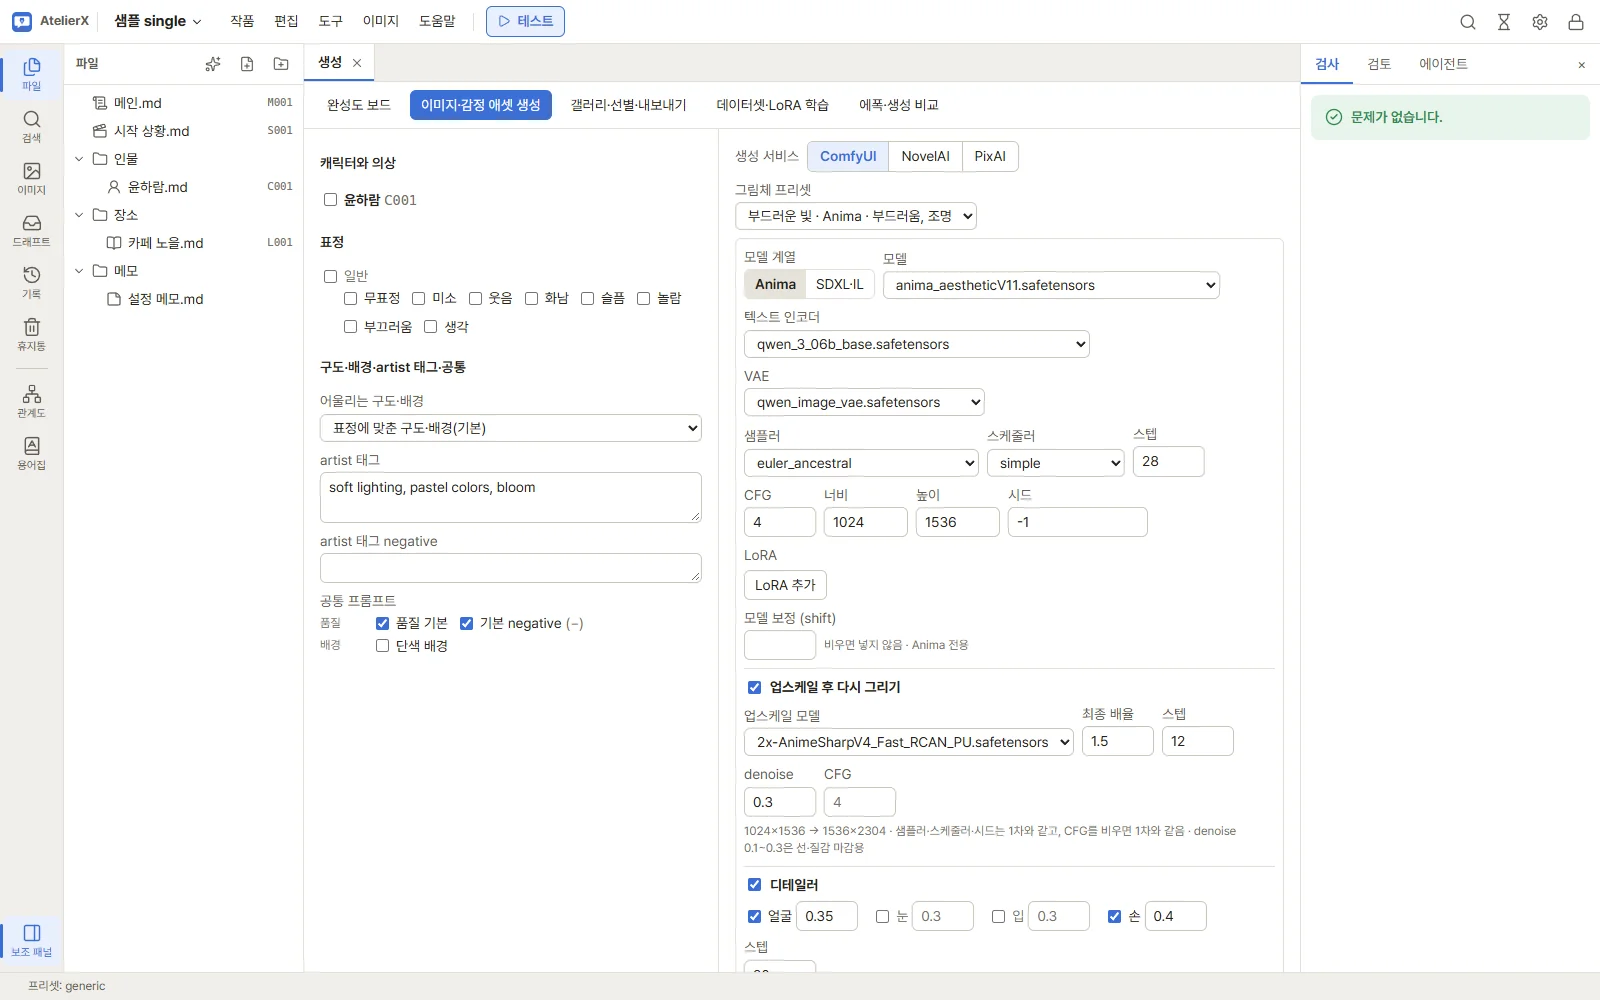
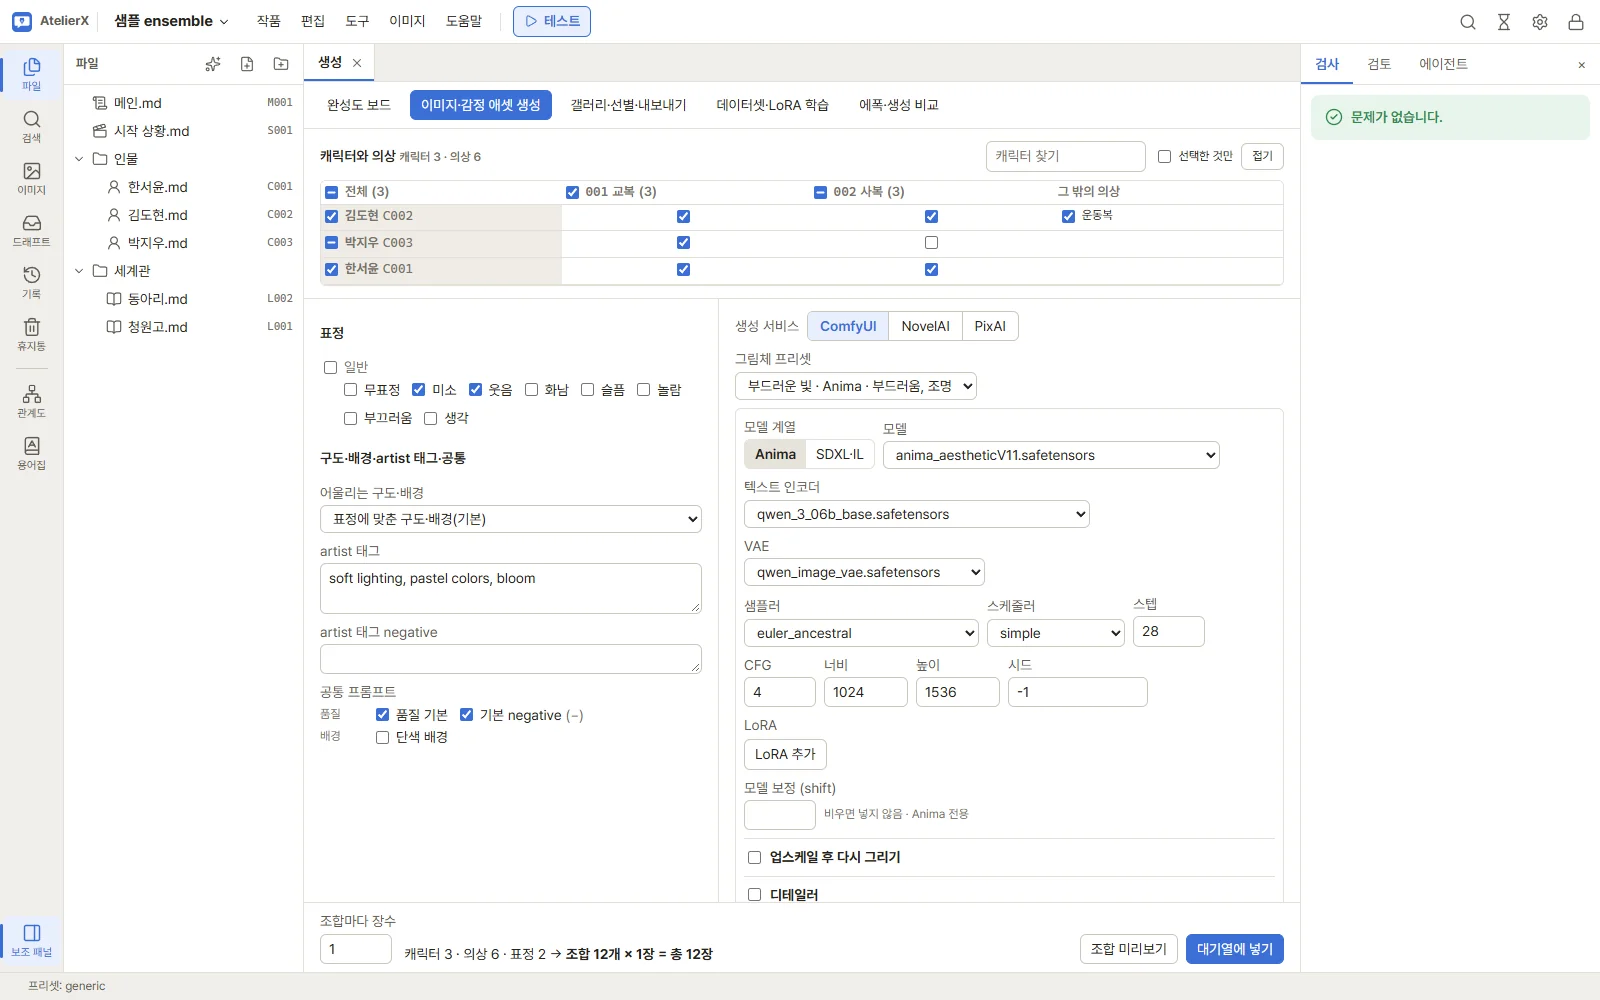
release: 0.3.1 changelog, manual and version (#216)

diff --git a/server/atelierx/__init__.py b/server/atelierx/__init__.py
@@ -1,3 +1,3 @@
 """AtelierX server."""
 
-__version__ = '0.3.0'
+__version__ = '0.3.1'

diff --git a/docs/manual/changelog.md b/docs/manual/changelog.md
@@ -2,6 +2,23 @@
 
 0.0.7부터는 도움말 → **업데이트 확인**에서 앱 안에서 바로 업데이트할 수 있습니다. 새 패키지를 직접 받았다면 이전 앱 폴더의 `config`, `state`, `data`, `output` 폴더를 새 폴더로 옮겨 쓰세요. 자세한 절차는 [유지 관리](guide/maintenance.md)에 있습니다.
 
+## 0.3.1
+
+### 바뀐 점
+
+- **생성 화면의 캐릭터 × 의상 표**: 캐릭터와 의상을 표로 고릅니다. 행은 캐릭터, 열은 의상이고, 배포 코드가 같은 의상은 캐릭터가 달라도 한 열로 모입니다(코드 오름차순). 행 머리로 그 캐릭터의 의상 전체, 열 머리로 그 의상을 가진 캐릭터 전체, 왼쪽 위 **전체**로 모든 캐릭터의 모든 의상을 한 번에 고르고, 칸을 하나씩 빼면 됩니다. 캐릭터 찾기, 선택한 것만 보기, 접기도 있습니다. → [이미지 생성](guide/generation.md)
+- **생성 화면 배치**: 표가 위쪽 전체 폭에 있고, 표정·구도와 생성 설정은 그 아래 두 칸, 조합마다 장수·합계·**조합 미리보기**·**대기열에 넣기**는 화면 맨 아래 줄에 늘 보입니다. 합계는 "캐릭터 N · 의상 N · 표정 N → 조합 N개 × M장 = 총 X장"으로 보입니다.
+- **한 번에 넣을 수 있는 수**: 요청 한 번에 조합 500개·3,000장까지였던 제한을 없앴습니다. 이 PC(ComfyUI)로 500장이 넘으면 총 장수를 보여 주고 한 번 더 묻습니다. 대기열에 기다리는 작업은 지금처럼 5,000개까지이고, 넘으면 몇 개가 기다리고 몇 개를 넣으려 했는지 알려 줍니다.
+
+### 고친 점
+
+- 설정 일부만 가진 그림체 프리셋(예: 0.3.0에서 화풍 조각이 옮겨진 프리셋, artist 태그만 있음)을 고르면 모델·크기 같은 나머지 칸이 비던 문제. 이제 프리셋에 있는 값만 바꾸고 나머지는 그대로 둡니다. 생성·비교 화면의 프리셋 불러오기도 같습니다.
+
+### 설명서
+
+- 이미지 생성(캐릭터 × 의상 표, 아래 줄, 한 번에 넣을 수 있는 수)과 생성 화면 캡처를 새로 고쳤습니다.
+- 캐릭터 이미지 설계에 새 의상 이름의 언어와 외모에 범위 추가에서 겹치는 글의 처리를 적었습니다.
+
 ## 0.3.0
 
 이번 버전은 데이터 형식이 바뀌는 MINOR 버전입니다. 처음 실행할 때 예전 생성 프리셋과 화풍 조각을 그림체 프리셋으로 한 번 옮깁니다(아래). 업데이트 전에 **전체 백업**을 해 두는 것을 권합니다.

diff --git a/docs/manual/index.md b/docs/manual/index.md
@@ -15,7 +15,7 @@ hero:
       text: 처음 사용하기
       link: /tutorial/first-run
     - theme: alt
-      text: 0.3.0에서 바뀐 점
+      text: 0.3.1에서 바뀐 점
       link: /changelog
 features:
   - title: 파일로 쓰는 작품
@@ -34,7 +34,7 @@ features:
 
 ## 이 설명서는
 
-**AtelierX 0.3.0**을 기준으로 씁니다. 화면 캡처는 0.0.3부터 0.3.0 사이에 찍어 버전마다 조금 다를 수 있습니다. 버전마다 바뀐 점은 [바뀐 점](changelog.md)에 모읍니다. 앱의 **도움말 → 사용 설명서(이 PC)** 로 같은 내용을 인터넷 없이 볼 수 있습니다.
+**AtelierX 0.3.1**을 기준으로 씁니다. 화면 캡처는 0.0.3부터 0.3.1 사이에 찍어 버전마다 조금 다를 수 있습니다. 버전마다 바뀐 점은 [바뀐 점](changelog.md)에 모읍니다. 앱의 **도움말 → 사용 설명서(이 PC)** 로 같은 내용을 인터넷 없이 볼 수 있습니다.
 
 ![작품 창: 파일 트리, 편집기, 에이전트 패널](screenshots/agent-conversation.webp)
 
